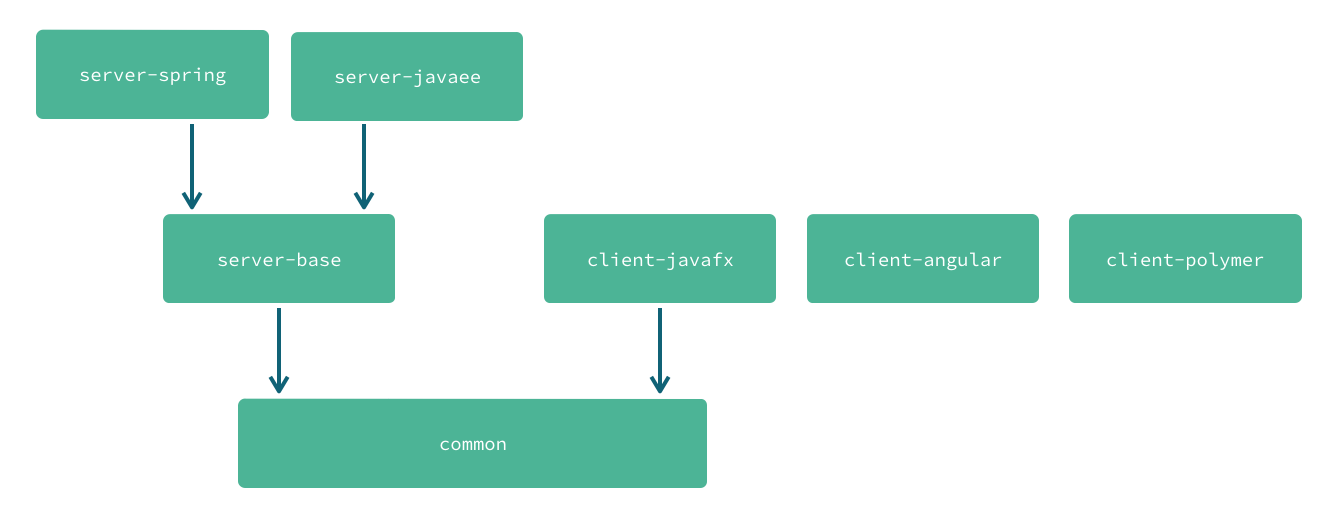
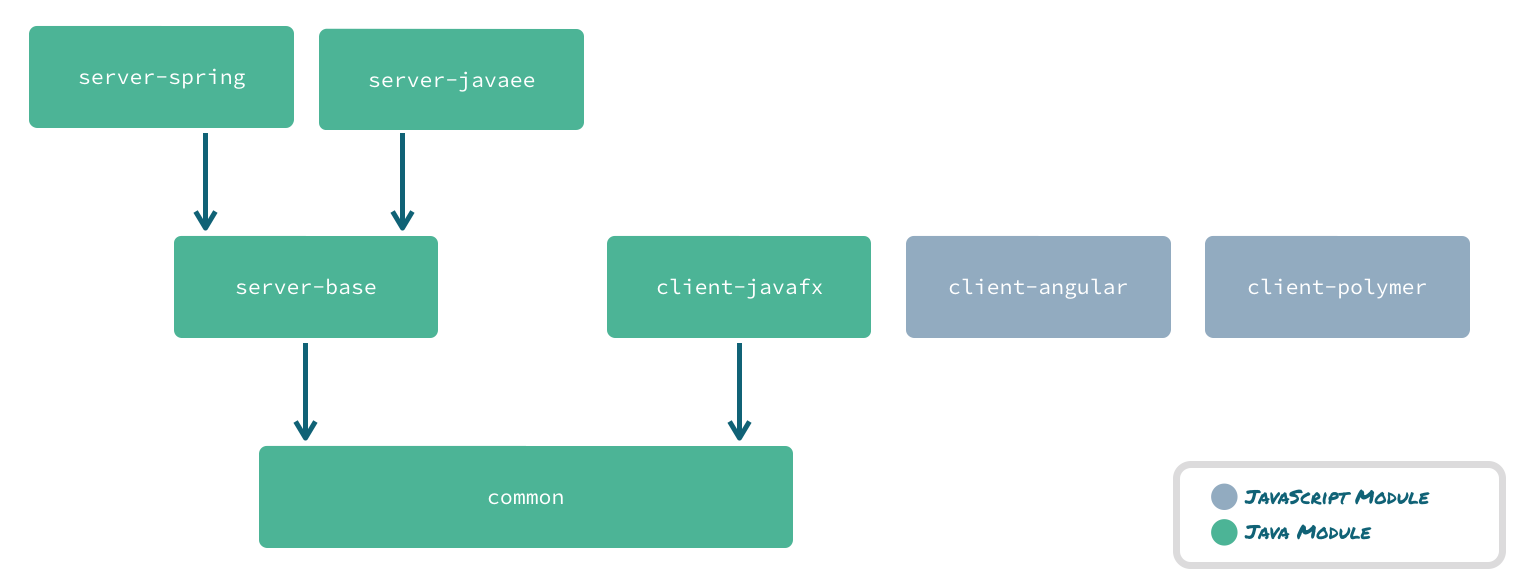
modules

Changed region(s): [[0.0, 0.0312, 0.982, 0.9688], [0.7672, 0.7812, 1.0, 1.0], [0.3069, 0.8438, 0.399, 0.875]]

diff --git a/todo-list/README.md b/todo-list/README.md
@@ -17,9 +17,13 @@ todo item is added by one client it will automatically be shown by all other cli
 
 ## Modules
 
-TODO
+The sample is seperated in several modules. The following image shows the dependecies of the modules:
 
 ![modules](readme/modules.png "modules")
+
+For all Java modules the model of the application is defined in the `common` module. By doing so the module definition
+can easily be shared between client and server modules. The `server-base` module contains all classes that are "server
+framework agnostic" and can easily be used in JavaEE and Spring.
 
 ## Start the sample
 
